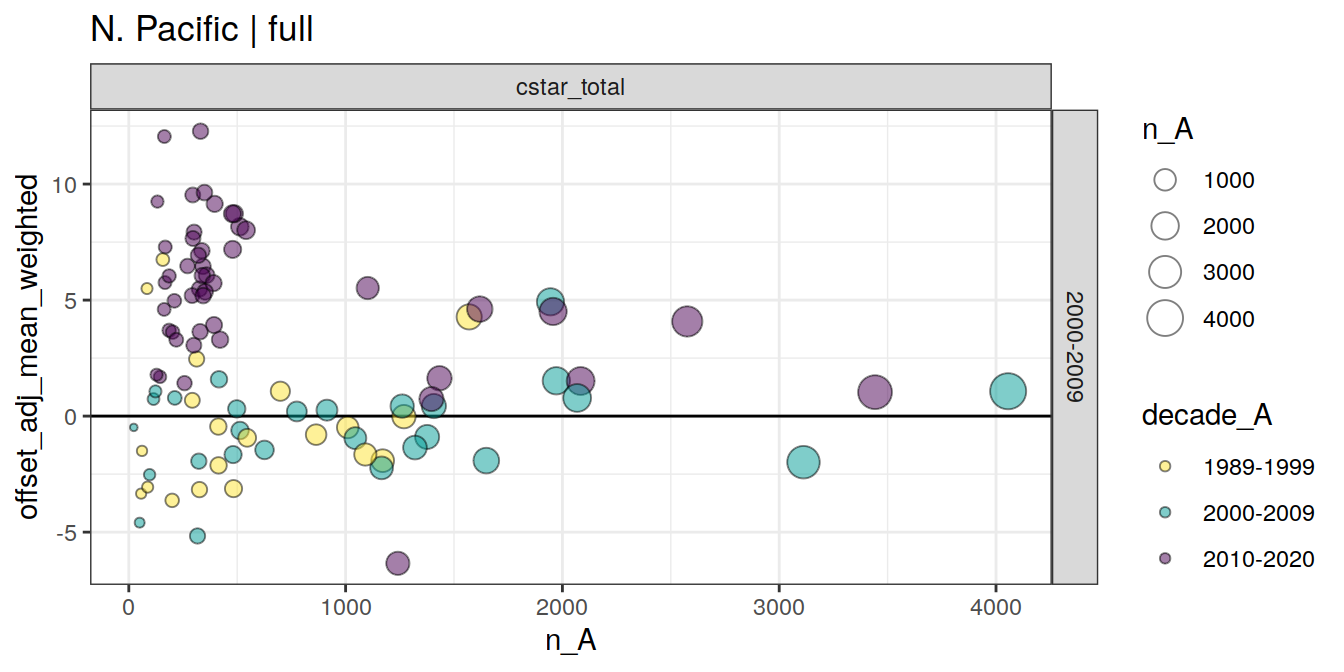
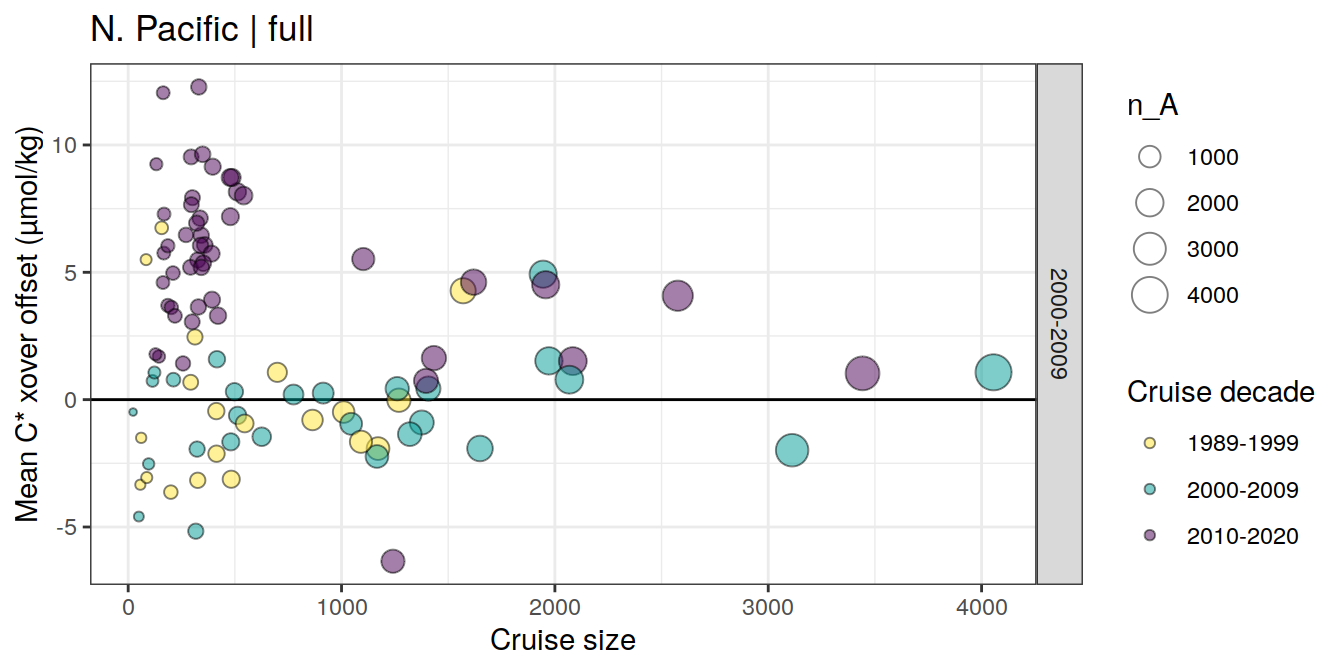
Build site.

diff --git a/docs/read_GLODAPv2_2021.html b/docs/read_GLODAPv2_2021.html
@@ -568,16 +568,16 @@ This reproducible <a href="https://rmarkdown.rstudio.com">R Markdown</a> analysi
 <div class="panel panel-default">
 <div class="panel-heading">
 <p class="panel-title">
-<a data-toggle="collapse" data-parent="#workflowr-checks" href="#strongRepositoryversionstrongahrefhttpsgithubcomjensdanielmuelleremlrobspreprocessingtreedf99c3a68ab155504d2d0d321579be1f54b66615targetblankdf99c3aa"> <span class="glyphicon glyphicon-ok text-success" aria-hidden="true"></span> <strong>Repository version:</strong> <a href="https://github.com/jens-daniel-mueller/emlr_obs_preprocessing/tree/df99c3a68ab155504d2d0d321579be1f54b66615" target="_blank">df99c3a</a> </a>
+<a data-toggle="collapse" data-parent="#workflowr-checks" href="#strongRepositoryversionstrongahrefhttpsgithubcomjensdanielmuelleremlrobspreprocessingtree251b8d98d2dabe7966936566eb67c5eee14b4ff7targetblank251b8d9a"> <span class="glyphicon glyphicon-ok text-success" aria-hidden="true"></span> <strong>Repository version:</strong> <a href="https://github.com/jens-daniel-mueller/emlr_obs_preprocessing/tree/251b8d98d2dabe7966936566eb67c5eee14b4ff7" target="_blank">251b8d9</a> </a>
 </p>
 </div>
[2 lines of base64/hex data omitted]
 <div class="panel-body">
 <p>
 Great! You are using Git for version control. Tracking code development and connecting the code version to the results is critical for reproducibility.
 </p>
 <p>
-The results in this page were generated with repository version <a href="https://github.com/jens-daniel-mueller/emlr_obs_preprocessing/tree/df99c3a68ab155504d2d0d321579be1f54b66615" target="_blank">df99c3a</a>. See the <em>Past versions</em> tab to see a history of the changes made to the R Markdown and HTML files.
+The results in this page were generated with repository version <a href="https://github.com/jens-daniel-mueller/emlr_obs_preprocessing/tree/251b8d98d2dabe7966936566eb67c5eee14b4ff7" target="_blank">251b8d9</a>. See the <em>Past versions</em> tab to see a history of the changes made to the R Markdown and HTML files.
 </p>
 <p>
 Note that you need to be careful to ensure that all relevant files for the analysis have been committed to Git prior to generating the results (you can use <code>wflow_publish</code> or <code>wflow_git_commit</code>). workflowr only checks the R Markdown file, but you know if there are other scripts or data files that it depends on. Below is the status of the Git repository when the results were generated:
@@ -638,6 +638,40 @@ Message
 </tr>
 </thead>
 <tbody>
+<tr>
+<td>
+Rmd
+</td>
+<td>
+<a href="https://github.com/jens-daniel-mueller/emlr_obs_preprocessing/blob/251b8d98d2dabe7966936566eb67c5eee14b4ff7/analysis/read_GLODAPv2_2021.Rmd" target="_blank">251b8d9</a>
+</td>
+<td>
+jens-daniel-mueller
+</td>
+<td>
+2022-05-16
+</td>
+<td>
+revised NPO analysis for GLODAP
+</td>
+</tr>
+<tr>
+<td>
+html
+</td>
+<td>
+<a href="https://rawcdn.githack.com/jens-daniel-mueller/emlr_obs_preprocessing/e5a1aa7a3b832461dd552cce5527dc79fc200048/docs/read_GLODAPv2_2021.html" target="_blank">e5a1aa7</a>
+</td>
+<td>
+jens-daniel-mueller
+</td>
+<td>
+2022-05-16
+</td>
+<td>
+Build site.
+</td>
+</tr>
 <tr>
 <td>
 Rmd
@@ -49174,6 +49208,17 @@ Date
 <tbody>
 <tr>
 <td>
+<a href="https://github.com/jens-daniel-mueller/emlr_obs_preprocessing/blob/e5a1aa7a3b832461dd552cce5527dc79fc200048/docs/figure/read_GLODAPv2_2021.Rmd/xover_cruise_mean_by_cruise_size_PO-1.png" target="_blank">e5a1aa7</a>
+</td>
+<td>
+jens-daniel-mueller
+</td>
+<td>
+2022-05-16
+</td>
+</tr>
+<tr>
+<td>
 <a href="https://github.com/jens-daniel-mueller/emlr_obs_preprocessing/blob/8f9904b4a5a19cdc02e616ecb3fb010240f64736/docs/figure/read_GLODAPv2_2021.Rmd/xover_cruise_mean_by_cruise_size_PO-1.png" target="_blank">8f9904b</a>
 </td>
 <td>
@@ -49296,27 +49341,68 @@ jens-daniel-mueller
     ) +
       geom_hline(yintercept = 0) +
       geom_point(alpha = 0.5, shape = 21) +
-      scale_fill_discrete_sequential(palette = &quot;viridis&quot;) +
-      labs(title = paste(.x$basin, &quot;| full&quot;)) +
+      scale_fill_discrete_sequential(palette = &quot;viridis&quot;,
+                                     name = &quot;Cruise decade&quot;) +
+      labs(title = paste(.x$basin, &quot;| full&quot;),
+           y = &quot;Mean C* xover offset (µmol/kg)&quot;,
+           x = &quot;Cruise size&quot;) +
       # coord_cartesian(ylim = c(-10,10)) +
-      facet_grid(decade ~ parameter)
+      facet_grid(decade ~ .)
   )</code></pre>
 <pre><code>[[1]]</code></pre>
 <p><img src="figure/read_GLODAPv2_2021.Rmd/xover_cruise_mean_by_cruise_size_PO-2.png" width="672" style="display: block; margin: auto;" /></p>
+<p>
+<button type="button" class="btn btn-default btn-xs btn-workflowr btn-workflowr-fig" data-toggle="collapse" data-target="#fig-xover_cruise_mean_by_cruise_size_PO-2">
+Past versions of xover_cruise_mean_by_cruise_size_PO-2.png
+</button>
+</p>
+<div id="fig-xover_cruise_mean_by_cruise_size_PO-2" class="collapse">
+<div class="table-responsive">
+<table class="table table-condensed table-hover">
+<thead>
+<tr>
+<th>
+Version
+</th>
+<th>
+Author
+</th>
+<th>
+Date
+</th>
+</tr>
+</thead>
+<tbody>
+<tr>
+<td>
+<a href="https://github.com/jens-daniel-mueller/emlr_obs_preprocessing/blob/e5a1aa7a3b832461dd552cce5527dc79fc200048/docs/figure/read_GLODAPv2_2021.Rmd/xover_cruise_mean_by_cruise_size_PO-2.png" target="_blank">e5a1aa7</a>
+</td>
+<td>
+jens-daniel-mueller
+</td>
+<td>
+2022-05-16
+</td>
+</tr>
+</tbody>
+</table>
+</div>
+</div>
 <pre class="r"><code>NPO_2010_small_cruises &lt;- xover_cruise_decade_all %&gt;%
   filter(
     parameter_coverage == &quot;full&quot;,
     parameter %in% c(&quot;cstar_total&quot;),
     basin == &quot;N. Pacific&quot;,
     decade == &quot;2000-2009&quot;,
-    n_A &lt; 750,
+    n_A &lt; 500,
     decade_A == &quot;2010-2020&quot;
   ) %&gt;% 
   distinct(cruise_A) %&gt;% 
   pull()
 
-
-# retrieve subbasin expocodes
+unique(str_sub(NPO_2010_small_cruises, 1, 4))</code></pre>
+<pre><code>[1] &quot;49UF&quot; &quot;49UP&quot;</code></pre>
+<pre class="r"><code># retrieve subbasin expocodes
   expocodes_basin &lt;- GLODAP %&gt;%
     filter(basin == &quot;N. Pacific&quot;,
            !is.na(decade)) %&gt;%
@@ -49380,6 +49466,43 @@ jens-daniel-mueller
     facet_grid(decade ~ .) +
     theme(legend.title = element_blank())</code></pre>
 <p><img src="figure/read_GLODAPv2_2021.Rmd/xover_cruise_mean_by_cruise_size_PO-3.png" width="672" style="display: block; margin: auto;" /></p>
+<p>
+<button type="button" class="btn btn-default btn-xs btn-workflowr btn-workflowr-fig" data-toggle="collapse" data-target="#fig-xover_cruise_mean_by_cruise_size_PO-3">
+Past versions of xover_cruise_mean_by_cruise_size_PO-3.png
+</button>
+</p>
+<div id="fig-xover_cruise_mean_by_cruise_size_PO-3" class="collapse">
+<div class="table-responsive">
+<table class="table table-condensed table-hover">
+<thead>
+<tr>
+<th>
+Version
+</th>
+<th>
+Author
+</th>
+<th>
+Date
+</th>
+</tr>
+</thead>
+<tbody>
+<tr>
+<td>
+<a href="https://github.com/jens-daniel-mueller/emlr_obs_preprocessing/blob/e5a1aa7a3b832461dd552cce5527dc79fc200048/docs/figure/read_GLODAPv2_2021.Rmd/xover_cruise_mean_by_cruise_size_PO-3.png" target="_blank">e5a1aa7</a>
+</td>
+<td>
+jens-daniel-mueller
+</td>
+<td>
+2022-05-16
+</td>
+</tr>
+</tbody>
+</table>
+</div>
+</div>
 <pre class="r"><code>  expocodes_basin_removed_40S &lt;- GLODAP_basin_grid %&gt;%
     filter(lat &lt; -40) %&gt;%
     distinct(cruise_expocode) %&gt;%
@@ -49419,6 +49542,43 @@ jens-daniel-mueller
     facet_grid(decade ~ .) +
     theme(legend.title = element_blank())</code></pre>
 <p><img src="figure/read_GLODAPv2_2021.Rmd/xover_cruise_mean_by_cruise_size_PO-4.png" width="672" style="display: block; margin: auto;" /></p>
+<p>
+<button type="button" class="btn btn-default btn-xs btn-workflowr btn-workflowr-fig" data-toggle="collapse" data-target="#fig-xover_cruise_mean_by_cruise_size_PO-4">
+Past versions of xover_cruise_mean_by_cruise_size_PO-4.png
+</button>
+</p>
+<div id="fig-xover_cruise_mean_by_cruise_size_PO-4" class="collapse">
+<div class="table-responsive">
+<table class="table table-condensed table-hover">
+<thead>
+<tr>
+<th>
+Version
+</th>
+<th>
+Author
+</th>
+<th>
+Date
+</th>
+</tr>
+</thead>
+<tbody>
+<tr>
+<td>
+<a href="https://github.com/jens-daniel-mueller/emlr_obs_preprocessing/blob/e5a1aa7a3b832461dd552cce5527dc79fc200048/docs/figure/read_GLODAPv2_2021.Rmd/xover_cruise_mean_by_cruise_size_PO-4.png" target="_blank">e5a1aa7</a>
+</td>
+<td>
+jens-daniel-mueller
+</td>
+<td>
+2022-05-16
+</td>
+</tr>
+</tbody>
+</table>
+</div>
+</div>
 </div>
 </div>
 <div id="decadal-averages" class="section level3" number="7.3.5">
@@ -58207,6 +58367,43 @@ xover_cruise_decade_all %&gt;%
        x = &quot;Cruise decade&quot;) +
   scale_x_discrete(guide = guide_axis(n.dodge = 2))</code></pre>
 <p><img src="figure/read_GLODAPv2_2021.Rmd/GLODAP_RG_parameter_offsets_IO-1.png" width="672" style="display: block; margin: auto;" /></p>
+<p>
+<button type="button" class="btn btn-default btn-xs btn-workflowr btn-workflowr-fig" data-toggle="collapse" data-target="#fig-GLODAP_RG_parameter_offsets_IO-1">
+Past versions of GLODAP_RG_parameter_offsets_IO-1.png
+</button>
+</p>
+<div id="fig-GLODAP_RG_parameter_offsets_IO-1" class="collapse">
+<div class="table-responsive">
+<table class="table table-condensed table-hover">
+<thead>
+<tr>
+<th>
+Version
+</th>
+<th>
+Author
+</th>
+<th>
+Date
+</th>
+</tr>
+</thead>
+<tbody>
+<tr>
+<td>
+<a href="https://github.com/jens-daniel-mueller/emlr_obs_preprocessing/blob/e5a1aa7a3b832461dd552cce5527dc79fc200048/docs/figure/read_GLODAPv2_2021.Rmd/GLODAP_RG_parameter_offsets_IO-1.png" target="_blank">e5a1aa7</a>
+</td>
+<td>
+jens-daniel-mueller
+</td>
+<td>
+2022-05-16
+</td>
+</tr>
+</tbody>
+</table>
+</div>
+</div>
 <pre class="r"><code>xover_cruise_decade_all %&gt;%
   filter(
     parameter_coverage == &quot;full&quot;,
@@ -58226,6 +58423,43 @@ xover_cruise_decade_all %&gt;%
        x = &quot;Cruise decade&quot;) +
   scale_x_discrete(guide = guide_axis(n.dodge = 2))</code></pre>
 <p><img src="figure/read_GLODAPv2_2021.Rmd/GLODAP_RG_parameter_offsets_IO-2.png" width="672" style="display: block; margin: auto;" /></p>
+<p>
+<button type="button" class="btn btn-default btn-xs btn-workflowr btn-workflowr-fig" data-toggle="collapse" data-target="#fig-GLODAP_RG_parameter_offsets_IO-2">
+Past versions of GLODAP_RG_parameter_offsets_IO-2.png
+</button>
+</p>
+<div id="fig-GLODAP_RG_parameter_offsets_IO-2" class="collapse">
+<div class="table-responsive">
+<table class="table table-condensed table-hover">
+<thead>
+<tr>
+<th>
+Version
+</th>
+<th>
+Author
+</th>
+<th>
+Date
+</th>
+</tr>
+</thead>
+<tbody>
+<tr>
+<td>
+<a href="https://github.com/jens-daniel-mueller/emlr_obs_preprocessing/blob/e5a1aa7a3b832461dd552cce5527dc79fc200048/docs/figure/read_GLODAPv2_2021.Rmd/GLODAP_RG_parameter_offsets_IO-2.png" target="_blank">e5a1aa7</a>
+</td>
+<td>
+jens-daniel-mueller
+</td>
+<td>
+2022-05-16
+</td>
+</tr>
+</tbody>
+</table>
+</div>
+</div>
 </div>
 <div id="test-weighted-average" class="section level3" number="7.3.6">
 <h3><span class="header-section-number">7.3.6</span> Test weighted average</h3>
